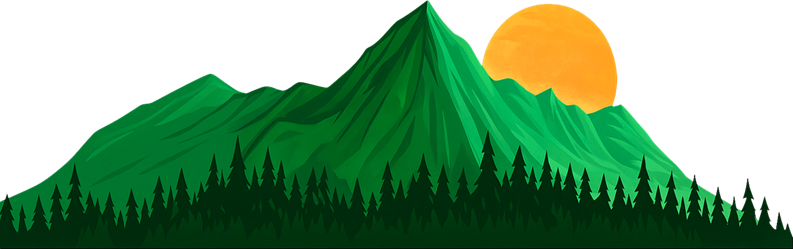
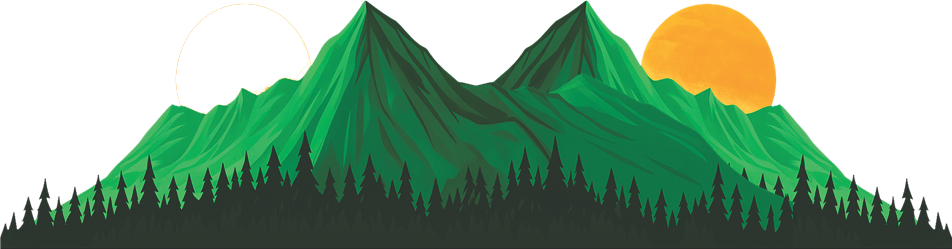
latest update for home page and buttons

diff --git a/css/style.css b/css/style.css
@@ -1,12 +1,15 @@
+/*=========================
+    Global Styles
+==========================*/
+
 body{
     margin: 0;
     text-align: center;
-    font-family: 'Trebuchet MS', 'Lucida Sans Unicode', 'Lucida Grande', 'Lucida Sans', Arial, sans-serif;
+    font-family: 'Trebuchet MS', 'Tangerine', 'Lucida Sans Unicode', 'Lucida Grande', 'Lucida Sans', Arial, sans-serif;
 }
 
 h1{
     color: #66bfbf;
-    position: relative;
     font-size: 50px;
     left: -150px;
 }
@@ -30,70 +33,76 @@ hr {
     border-width: 10px;
 }
 
-.btn {
-    position: relative;
-    top: 40px;
-    background-color: #11999e;
-    color: white;
-    padding: 10px 20px;
-    border-radius: 10px;
-    font-weight: 900;
-    text-decoration-line: none;
+/*=========================
+    Top Section Styles
+==========================*/
+
+.top-section {
+    background-color: #cff7ef;
+    position: static;
+    padding-top: 100px;
+    height: 600px;
+    width: 100%;
 }
 
-
-.text p {
+.cloud-top {
     position: relative;
-    font-size: 20px;
-    left: -150px;
-    bottom: 10px;
-    font-family: monospace;
+    top: -40px;
+    width: 30%;
+    float: right;
+}
+
+.cloud-bottom {
+    position: relative;
+    bottom: -140px;
+    float: left;
+    width: 30%;
+}
+
+.mountain {
+    position: relative;
+    top: 268px;
+    float: inherit;
+}
+
+.text {
+    position: absolute; 
+    width: 100%;   
+}
+
+.text h1 {
+    position: relative;
+    font-family: 'Tangerine', sans-serif;
+    color: #11999e;
+    font-size: 110px;
+    font-weight: normal;
+    left: -10px;
+    top: -20px;
 }
 
 .text h2 {
     color: #000;
-    position: absolute;
-    left: 200px;
-    bottom: -40px;
-}
-
-.top-section {
-    background-color: #cff7ef;
     position: relative;
-    padding-top: 100px;
-    height: 490px;
-}
+    font-size: 20px;
+    font-weight: normal;
+    bottom: 90px;
+} 
+
+/*=========================
+    Middle Section Styles
+==========================*/
 
 .profile {
     padding-bottom: 50px;
 }
-.profile h2 {
-    font-size: 30px;
+
+.profile p {
+    width: 50%;
+    margin: 0 auto;
+    line-height: 1.8;
+    text-align: center;
 }
 
-.cloud-top {
-    position:absolute;
-    top: 80px;
-    right: 200px;
-}
-
-.text {
-    position: absolute;
-    top: 150px;
-    left: 400px;
-}
-
-.cloud-bottom {
-    position: absolute;
-    bottom: 250px;
-    left: 200px;
-}
-
-.mountain {
-    position: absolute;
-    top: 340px;
-    left: 300px;
-}
 
 .skills {
     padding-top: 50px;
@@ -131,4 +140,76 @@ hr {
     position: relative;
     padding-top: 100px;
     /* height: 490px; */
+}
+
+/*=========================
+    Contact Me Section Styles
+==========================*/
+.contact-me {
+    height: 250px;
+    padding-top: 50px;
+    padding-bottom: 50px;
+}
+
+/*=========================
+    Contact Button Styles
+==========================*/
+
+.contact_btn {
+    position: relative;
+    top: 40px;
+    padding-top: 30px;
+    background-color: #11999e;
+    color: white;
+    padding: 10px 20px;
+    border-radius: 10px;
+    font-weight: 900;
+    text-decoration: none;
+}
+
+.contact_btn:hover {
+    background-color: #cff7ef;
+    color: #000;
+    padding: 10px 20px;
+    border-radius: 10px;
+    font-weight: 900;
+}   
+
+
+/*=========================
+    Other Button Styles
+==========================*/
+.footer-link {
+    text-decoration: none;
+    color: #11999e;
+    font-weight: bold;
+    padding: 10px 20px;
+    border-radius: 10px;
+    border: 2px solid #11999e;
+}
+.footer-link:hover {
+    background-color: #11999e;
+    color: white;
+    padding: 10px 20px;
+    border-radius: 10px;
+    font-weight: 900;
+}
+/*=========================
+    Footer Styles
+==========================*/
+footer {
+    position: static;
+    height: 20px;
+    width: 100%;
+    background-color: #cff7ef;
+    color: white;
+    background-color: #000;
+    padding: 20px 0;
+    margin-top: 40px;
+}
+footer p {
+    position: relative;
+    top: -10px;
+    color: white;
+    font-size: 15px;
 }

diff --git a/index.html b/index.html
@@ -4,6 +4,7 @@
     <meta charset="UTF-8">
     <meta name="viewport" content="width=device-width, initial-scale=1.0">
     <title>Osamudiamen Destiny Agbonyinma</title>
+    <link href="https://fonts.googleapis.com/css2?family=Style+Script&family=Tangerine:wght@400;700&display=swap" rel="stylesheet">
     <link rel="stylesheet" href="/css/style.css">
     <link rel="icon" href="/favicon/favicon.ico" type="image/x-icon">
 </head>
@@ -14,8 +15,8 @@
             <img src="/image/cloud.png" alt="cloud">
         </div>
         <div class="text" >
-            <h1>I'm Osamudiamen Destiny Agbonyinma</h1>
-            <h2>A Software Developer.</h2>
+            <h1>I'm Osamudiamen</h1>
+            <h2>A Professional {Health + Software}!</h2>
         </div>
         <div class="cloud-bottom">
             <img src="/image/cloud.png" alt="cloud">
@@ -31,7 +32,7 @@
         <div class="profile">
             <img src="/image/osamudiamen agbonyinma3.png" alt="My photo">
             <h2>Hi there!.</h2>
-            <p>I am a Software Developer with a passion for creating innovative solutions. Here, you can find information about my projects, skills, and interests.</p>
+            <p>I am Osamudiamen Destiny Agbonyinma, a Software Developer with a passion for creating innovative system and Health solutions. Here, you can find information about my projects, skills, and interests.</p>
         </div>
         <hr>
         <div class="skills">
@@ -50,7 +51,7 @@
                 <img class="biodata" src="/image/biodata.jpeg" alt="Bio Statistician">
                 <h3>Seasoned Biostastician</h3>
                 <p>For your big data analysis, deep dip into the data metrics, and turning data into actionable/decision making processes.
-                    <br> <strong> Excellent data usage in -</strong> spss, r, sql, and python...
+                    <br> <strong> Excellent data usage in -</strong> SPSS, R, SQL, and Python...
                     <br> <strong>Projects - </strong>Worked with International NGO's, State Governments, Health Ministries, Health facilities as well as Private cooperations. 
                 </p>
             </div>
@@ -60,7 +61,7 @@
             <h2>Get in Touch</h2>
             <h3>Get to meet me, let's have that unique conversation.</h3>
             <p>You can contact me for structural buildup of any of your software and technological apparatus</p>
-            <a class="btn btn-blue" href="mailto:osamudiamenagbonyinma@email.com">CONTACT ME</a>
+            <a class="contact_btn" href="mailto:pebbleinspiration@email.com">CONTACT ME</a>
         </div>
     </div>
     <!--Middle container ends here-->
@@ -71,8 +72,11 @@
         <a class="footer-link" href="https://web.facebook.com/story.php?story_fbid=2176937815854521&id=100006149709414&_rdc=1&_rdr#">Facebook</a>
         <a class="footer-link" href="">GitHub</a>
         <a class="footer-link" href="https://about.me/osamudiamen/">About Me</a>
-        <p>Copyright 2025 Osamudiamen D. Agbonyinma</p>
     </div>
     <!--Bottom container ends here-->
+
+    <footer>
+        <p>  &copy; Copyright 2025 Osamudiamen Destiny Agbonyinma</p>
+    </footer>
 </body>
 </html>
